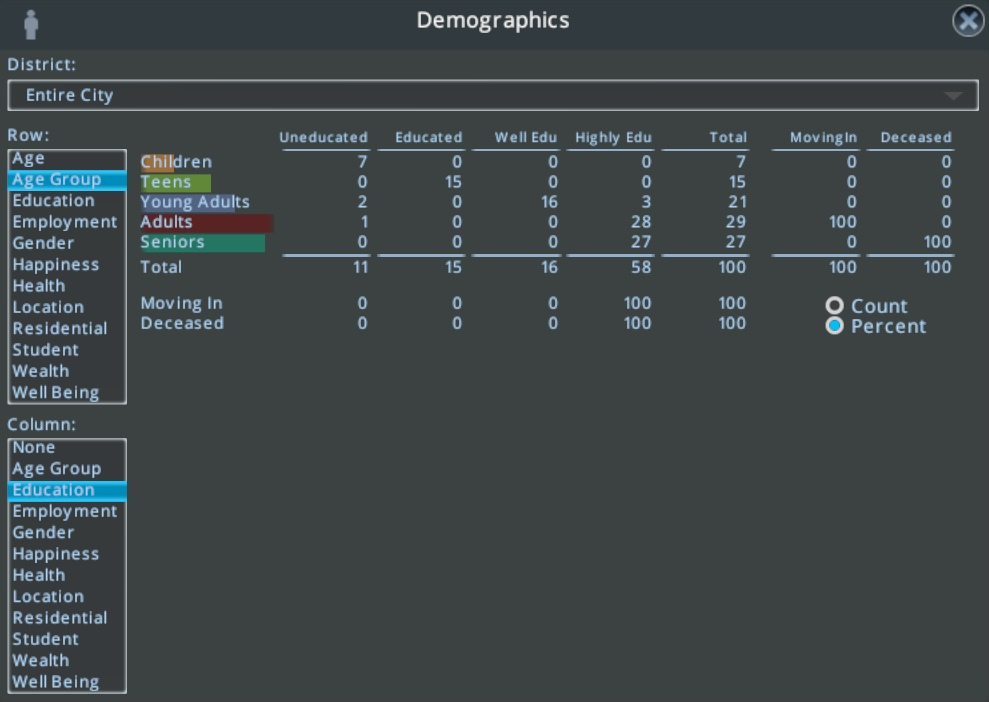
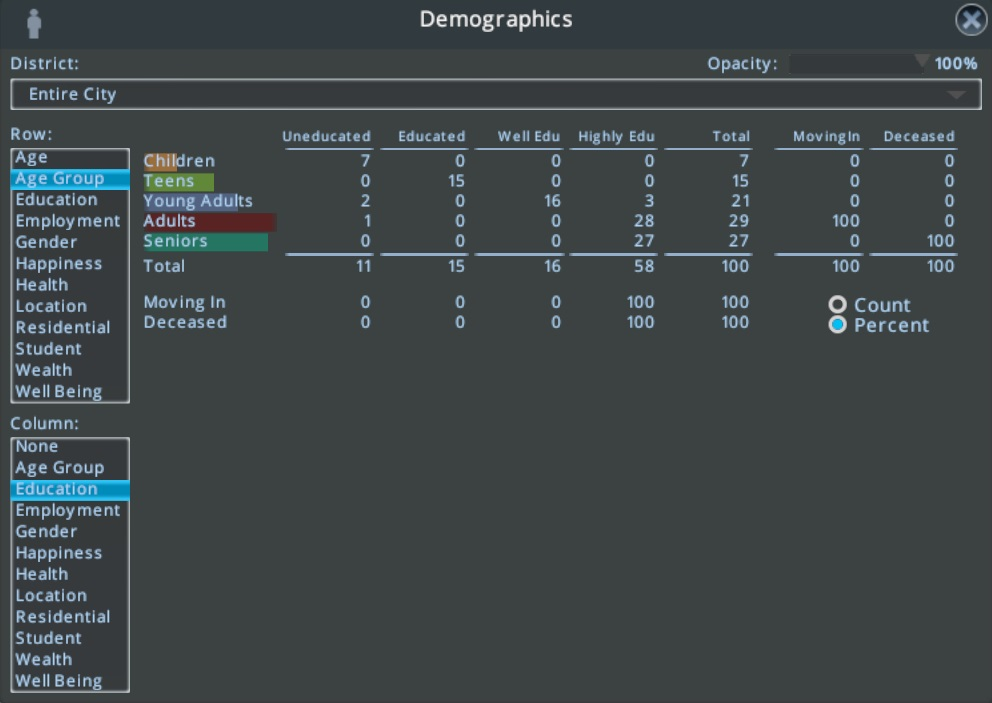
Version 2.3

diff --git a/PopulationDemographicsPanel.cs b/PopulationDemographicsPanel.cs
@@ -190,6 +190,11 @@ namespace PopulationDemographics
         private UISprite _countCheckBox;
         private UISprite _percentCheckBox;
 
+        // UI elements for opacity
+        public const float DefaultOpacity = 1f;
+        private UISlider _opacitySlider;
+        private UILabel _opacityValueLabel;
+
 
         // here is the hierarchy of UI elements:
         //
@@ -198,6 +203,7 @@ namespace PopulationDemographics
         //      title label
         //      close button
         //      district dropdown
+        //      opacity label and slider
         //      row selection label and listbox
         //      column selection label and listbox
         //      heading panel
@@ -303,11 +309,11 @@ namespace PopulationDemographics
                 name = "PopulationDemographicsPanel";
                 backgroundSprite = "MenuPanel2";
                 canFocus = true;
-                opacity = 1f;
 
-                // set initial visibility from config
+                // set initial visibility and opacity from config
                 Configuration config = ConfigurationUtil<Configuration>.Load();
                 isVisible = config.PanelVisible;
+                opacity = config.PanelOpacity;
 
                 // get the PopulationInfoViewPanel panel (displayed when the user clicks on the Population info view button)
                 PopulationInfoViewPanel populationPanel = UIView.library.Get<PopulationInfoViewPanel>(nameof(PopulationInfoViewPanel));
@@ -416,6 +422,81 @@ namespace PopulationDemographics
                 district.anchor = UIAnchorStyle.Left | UIAnchorStyle.Top | UIAnchorStyle.Right;
                 _selectedDistrictID = UIDistrictDropdown.DistrictIDEntireCity;
                 district.selectedDistrictID = _selectedDistrictID;
+
+
+                // create opacity slider from template on district panel
+                UIPanel opacityPanel = district.AttachUIComponent(UITemplateManager.GetAsGameObject("OptionsSliderTemplate")) as UIPanel;
+                if (opacityPanel == null)
+                {
+                    LogUtil.LogError($"Unable to attach opacity slider panel.");
+                    _opacitySlider = null;
+                    _opacityValueLabel = null;
+                    return;
+                }
+                opacityPanel.name = "OpacityPanel";
+                opacityPanel.autoSize = false;
+                opacityPanel.autoLayout = false;
+                const float OpacityLabelWidth = 60f;
+                const float OpacitySliderWidth = 100f;
+                const float OpacityValueLabelWidth = 40f;
+                const float OpacitySpacing = 5f;
+                opacityPanel.size = new Vector2(OpacityLabelWidth + OpacitySpacing + OpacitySliderWidth + OpacitySpacing + OpacityValueLabelWidth, TextHeight);
+                opacityPanel.relativePosition = new Vector3(district.size.x - opacityPanel.size.x, 0f);
+                opacityPanel.anchor = UIAnchorStyle.Top | UIAnchorStyle.Right;
+
+                // get the label from the template
+                UILabel sliderLabel = opacityPanel.Find<UILabel>("Label");
+                if (sliderLabel == null)
+                {
+                    LogUtil.LogError($"Unable to find opacity label.");
+                    _opacityValueLabel = null;
+                    return;
+                }
+                sliderLabel.name = "OpacityLabel";
+                sliderLabel.text = "Opacity: ";
+                sliderLabel.autoSize = false;
+                sliderLabel.size = new Vector2(OpacityLabelWidth, TextHeight);
+                sliderLabel.anchor = UIAnchorStyle.Top | UIAnchorStyle.Left;
+                sliderLabel.relativePosition = new Vector3(0f, 2f);
+                sliderLabel.textScale = TextScale;
+                sliderLabel.textColor = TextColorNormal;
+                sliderLabel.textAlignment = UIHorizontalAlignment.Right;
+
+                // get the slider
+                _opacitySlider = opacityPanel.Find<UISlider>("Slider");
+                if (_opacitySlider == null)
+                {
+                    LogUtil.LogError($"Unable to find opacity slider.");
+                    _opacityValueLabel = null;
+                    return;
+                }
+                _opacitySlider.name = "OpacitySlider";
+                _opacitySlider.autoSize = false;
+                _opacitySlider.size = new Vector2(OpacitySliderWidth, TextHeight);
+                _opacitySlider.relativePosition = new Vector3(sliderLabel.size.x + OpacitySpacing, 0f);
+                _opacitySlider.orientation = UIOrientation.Horizontal;
+                _opacitySlider.stepSize = 0.01f;
+                _opacitySlider.scrollWheelAmount = 0.01f;
+                _opacitySlider.minValue = 0.40f;
+                _opacitySlider.maxValue = 1.00f;
+                _opacitySlider.value = Mathf.Clamp(config.PanelOpacity, _opacitySlider.minValue, _opacitySlider.maxValue);
+
+                // create opacity value label
+                _opacityValueLabel = opacityPanel.AddUIComponent<UILabel>();
+                if (_opacityValueLabel == null)
+                {
+                    LogUtil.LogError($"Unable to create opacity value label.");
+                    return;
+                }
+                _opacityValueLabel.name = "OpacityValueLabel";
+                _opacityValueLabel.autoSize = false;
+                _opacityValueLabel.size = new Vector2(OpacityValueLabelWidth, TextHeight);
+                _opacityValueLabel.relativePosition = new Vector3(_opacitySlider.relativePosition.x + _opacitySlider.size.x + OpacitySpacing, 2f);
+                _opacityValueLabel.textScale = TextScale;
+                _opacityValueLabel.textColor = TextColorNormal;
+                _opacityValueLabel.textAlignment = UIHorizontalAlignment.Center;
+                ShowOpacityValue(_opacitySlider.value);
+
 
                 // create row selection label
                 if (!CreateSelectionLabel(textFont, out UILabel rowSelectionLabel)) { return; }
@@ -580,6 +661,7 @@ namespace PopulationDemographics
                 // set event handlers
                 closeButton.eventClicked += CloseClicked;
                 district.eventSelectedDistrictChanged += SelectedDistrictChanged;
+                _opacitySlider.eventValueChanged += OpacityValueChanged;
                 rowSelectionListBox   .eventSelectedIndexChanged += RowSelectedIndexChanged;
                 columnSelectionListBox.eventSelectedIndexChanged += ColumnSelectedIndexChanged;
                 _countPanel.eventClicked   += DisplayOption_eventClicked;
@@ -1187,6 +1269,30 @@ namespace PopulationDemographics
             // hide this panel
             isVisible = false;
             Configuration.SavePanelVisible(isVisible);
+        }
+
+        /// <summary>
+        /// handle opacity slider value changed
+        /// </summary>
+        private void OpacityValueChanged(UIComponent component, float value)
+        {
+            // save value to config
+            Configuration.SavePanelOpacity(value);
+
+            // update panel opacity
+            opacity = value;
+
+            // show opacity value
+            ShowOpacityValue(value);
+        }
+
+        /// <summary>
+        /// show opacity value as a percent
+        /// </summary>
+        private void ShowOpacityValue(float opacity)
+        {
+            int opacityPercent = Mathf.RoundToInt(100f * opacity);
+            _opacityValueLabel.text = opacityPercent.ToString() + "%";
         }
 
         /// <summary>

diff --git a/Configuration.cs b/Configuration.cs
@@ -11,6 +11,7 @@
 
         // configuration parameters
         public bool PanelVisible = true;
+        public float PanelOpacity = PopulationDemographicsPanel.DefaultOpacity;
         public int RowSelection = (int)PopulationDemographicsPanel.RowSelection.AgeGroup;
         public int ColumnSelection = (int)PopulationDemographicsPanel.ColumnSelection.Education;
         public bool CountStatus = true;
@@ -22,6 +23,16 @@
         {
             Configuration config = ConfigurationUtil<Configuration>.Load();
             config.PanelVisible = visible;
+            ConfigurationUtil<Configuration>.Save();
+        }
+
+        /// <summary>
+        /// save the panel opacity to the global config file
+        /// </summary>
+        public static void SavePanelOpacity(float opacity)
+        {
+            Configuration config = ConfigurationUtil<Configuration>.Load();
+            config.PanelOpacity = opacity;
             ConfigurationUtil<Configuration>.Save();
         }
 

diff --git a/Properties/AssemblyInfo.cs b/Properties/AssemblyInfo.cs
@@ -21,7 +21,7 @@ using System.Runtime.InteropServices;
 // The AssemblyVersion has the format "{Major}.{Minor}.{Build}.{Revision}".
 // The form "{Major}.{Minor}.*" will automatically update the build and revision.
 // The form "{Major}.{Minor}.{Build}.*" will update just the revision.
-[assembly: AssemblyVersion("2.2.*")]
+[assembly: AssemblyVersion("2.3.*")]
 
 // The AssemblyFileVersion is commented out which causes the AssemblyFileVersion to be the same as the AssemblyVersion, as desired.
 //[assembly: AssemblyFileVersion("1.0.0.0")]
